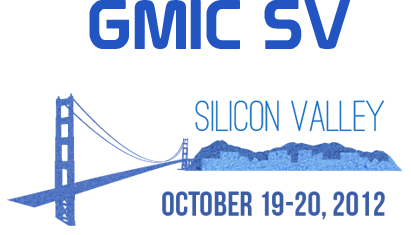
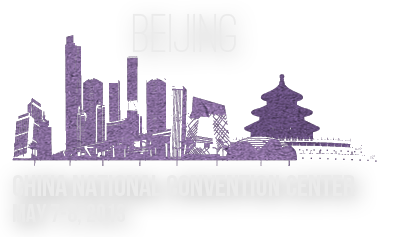
revamp first version

diff --git a/css/main-gmic.css b/css/main-gmic.css
@@ -1,6 +1,6 @@
 html {background-image: none; background-color: #fff;}
 body {background: transparent url(../images/tile.gif) 0 0 repeat;}
-#wrapper {background: transparent url(../images/header-bg-2.gif) 0 0 repeat-x;}
+#wrapper {background: #212121 url(../images/gmic-main-title.png) center -51px no-repeat;}
 
 #header {margin: 0 auto; width: 960px; position: relative;}
 
@@ -8,19 +8,27 @@ body {background: transparent url(../images/tile.gif) 0 0 repeat;}
 
 #logo-area #logo {padding:0;}
 
-#logo-area #logo a {display: block; background: transparent url(../images/gmic-main-title.png) -76px 0px no-repeat; width: 960px; height:0px; margin:0; overflow: hidden; padding-top: 89px;}
+#logo-area #logo a {display: block; background: transparent url(../images/gmic-main-title.png) center -57px no-repeat; width: 960px; height:0px; margin:0; overflow: hidden; padding-top: 189px;}
 
-#top-menu {position:absolute; right: 30px; top: -14px;}
+#top-menu {position:absolute; right: 0px; top: -14px;}
 #top-menu li {background-color: #333; padding:2px 4px 2px 4px;}
 
-#main-area {background: transparent url(../images/tile.gif) 0 0 repeat; }
-#content-area {padding: 20px 0 43px 0; background: transparent url(../images/divider.gif) center 50px no-repeat; }
+#main-area {background: transparent url(../images/content-bg.jpg) center 0 no-repeat; }
+#content-area {
+	padding: 4px 0 20px 0; 
+	background: transparent url(../images/divider.gif) center 50px no-repeat; 
+	-webkit-box-shadow: 0px -2px 12px rgba(0, 0, 0, 0.5); 
+	-moz-box-shadow: 0px -2px 12px rgba(0, 0, 0, 0.5); 
+	box-shadow: 0px -2px 12px rgba(0, 0, 0, 0.5); 
+}
 
 .post-content p.beijing {padding-top: 0;}
 .post-content p.beijing img {margin:0; margin-top: -5px;}
-.post-content p.beijing {margin:0 40px 0 0;}
-.post-content p.silicon {margin: 0 0 0 -36px;}
+.post-content p.beijing {margin:0 10px 0 0;}
+.post-content p.silicon {margin: 0 0 0 10px;}
 
-.footer_wrap { background-color: #fff; padding-top:0;}
+.footer_wrap { background-color: #fff; padding-top:0; border-top: 1px solid #ccc;}
 #main_footer {width:960px; margin: 0 auto;background-image: none; text-align: center;}
 #main_footer .social-buttons {width:116px; margin: 0 auto; }
+
+table, table td {border: none;}

diff --git a/index.html b/index.html
@@ -23,6 +23,7 @@
 		<script src="js/html5.js" type="text/javascript"></script>
 	<![endif]-->
 
+	<link rel="Shortcut Icon" type="image/ico" href="http://www.gmic-sv.com/wp-content/themes/gmicsv/images/favicon.ico" />
 		
 </head>
 <body class="page page-id-164 page-template page-template-page-full-php chrome">
@@ -54,7 +55,14 @@
 		<div class="post-content">
 			<p class="clearfix silicon" style="float: left;"><a href="http://www.gmic-sv.com" target="_blank"><img alt="Silicon Vally" src="images/channel-02.png" /></a></p>
 <p class="clearfix beijing" style="float: right;"><a href="http://gmic2012.greatwallclub.com" target="_blank"><img alt="GMIC Beijing" src="images/channel.png" /></a></p>
-
+<p style="padding: 12px 0 32px 0;color: #e3e3e3; font-size:18px;clear:both; text-align:center;">The Global Mobile Internet Conference brings together the world's emerging epicenters of mobile innovation to discuss the shifts, challenges and future opportunities in the fastest growing markets.</p>
+								<table width="100%" border="0" cellspacing="2" cellpadding="2">
+  <tr>
+    <td><img alt="Wrap Up" src="images/box.png" /></td>
+    <td><img alt="Sponsors" src="images/box-02.png" /></td>
+    <td><img alt="Media" src="images/box-03.png" /></td>
+  </tr>
+</table>
 								</div> 	<!-- end .post-content -->
 	</article> <!-- end .entry -->
 			</div> <!-- end #left_area -->
